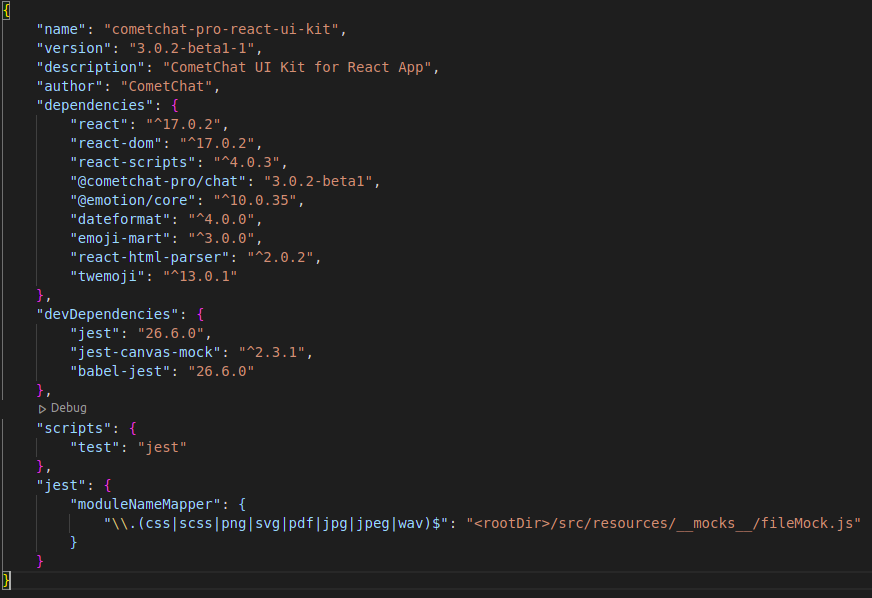
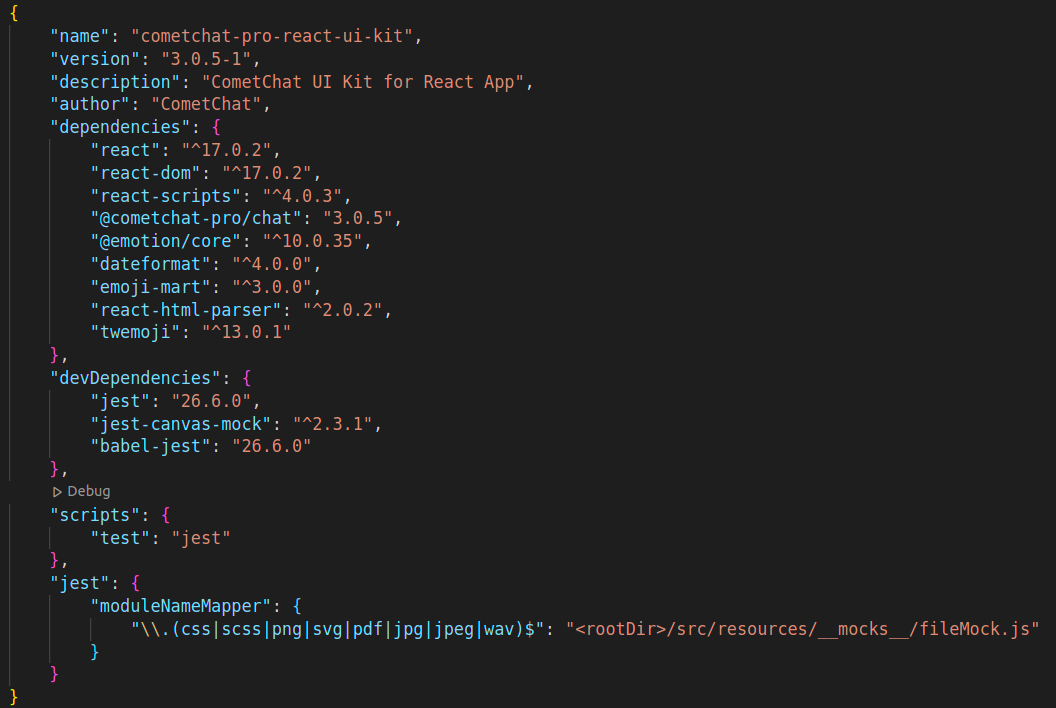
Updating Readme.md and package.json files

diff --git a/README.md b/README.md
@@ -97,7 +97,7 @@ To install React UI Kit, you need to first register on CometChat Dashboard. <a h
 ### iii. Add the CometChat Dependency
 
 ```javascript
-  npm install @cometchat-pro/chat@3.0.2-beta1 --save
+  npm install @cometchat-pro/chat@3.0.5 --save
 ```
 
 <br/>
